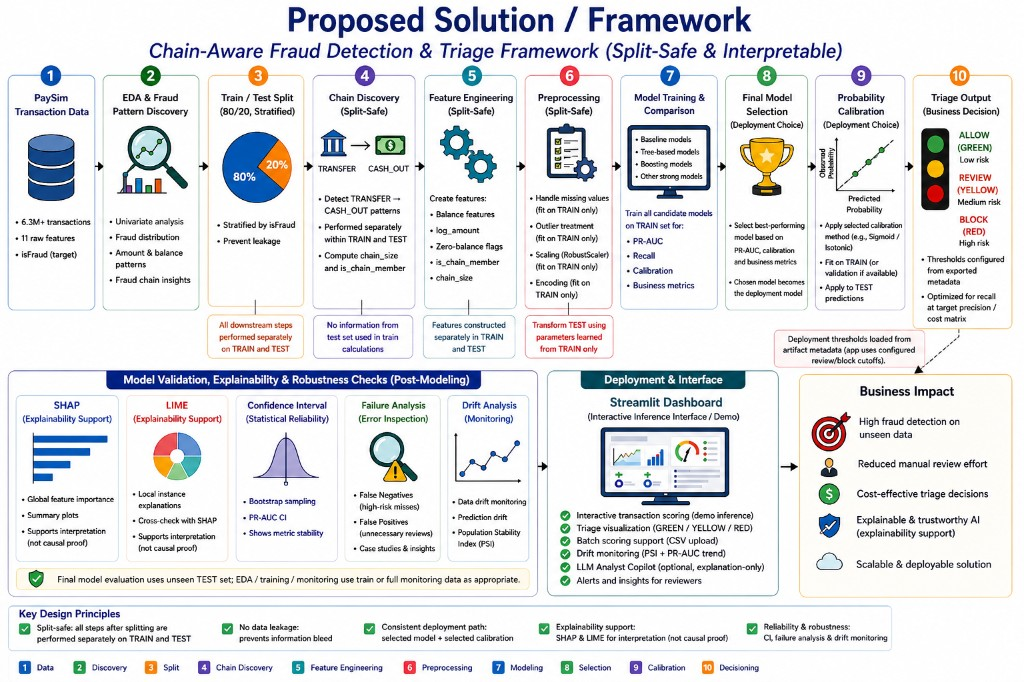
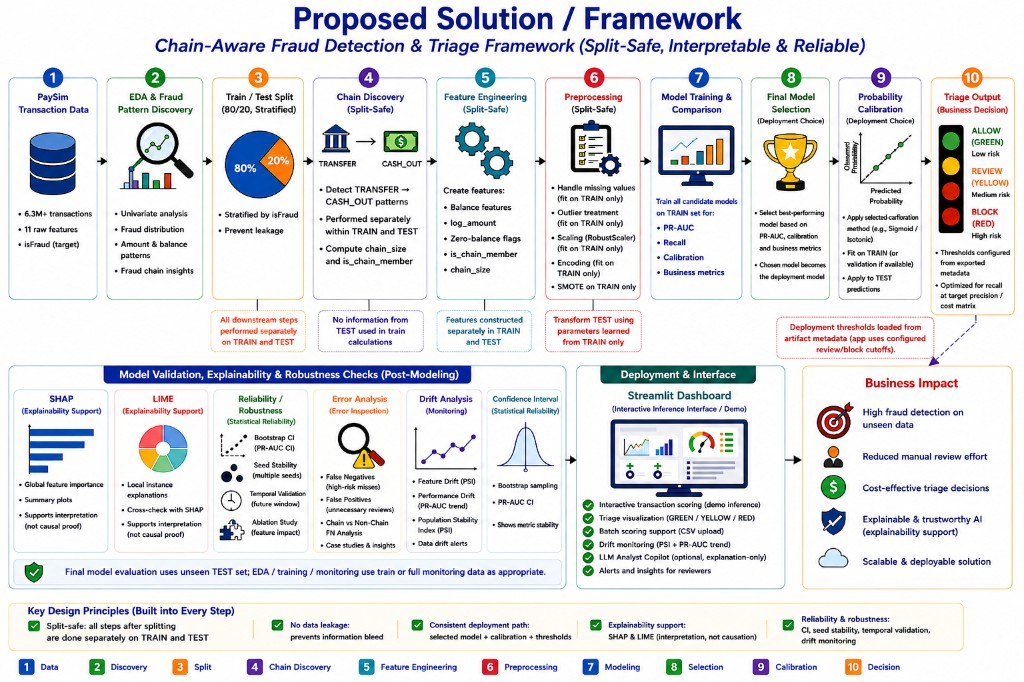
docs(readme): add chain-aware flowchart alongside framework infographic
- Embed ml_flow_diagram_chain_aware.png in figure gallery
- Refresh ml_framework_chain_aware.png (proposed solution visual)

diff --git a/README.md b/README.md
@@ -124,6 +124,14 @@ The prototype has **five tabs**: Command Center, Dashboard, Batch upload, Drift 
 **SHAP global summary (feature impact):**
 ![SHAP summary](assets/image-df7adac4-79f9-4057-a503-cda45689f81c.png)
 
+### C) Chain-aware framework diagrams
+
+Lead visual is also shown at the top of this README: **[`assets/ml_framework_chain_aware.png`](assets/ml_framework_chain_aware.png)** (proposed solution / split-safe fraud triage framework — EDA → split → chain features → preprocessing → modeling → calibration → triage).
+
+**End-to-end ML flowchart:** no-chain vs chain-aware branches, finalist comparison, calibration, threshold/triage policy, artifact export, and Streamlit demo.
+
+![ML framework chain-aware flowchart](assets/ml_flow_diagram_chain_aware.png)
+
 ---
 
 ## Tech stack